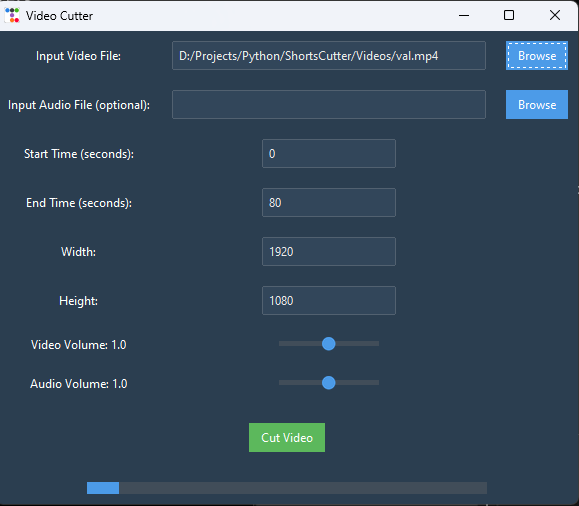
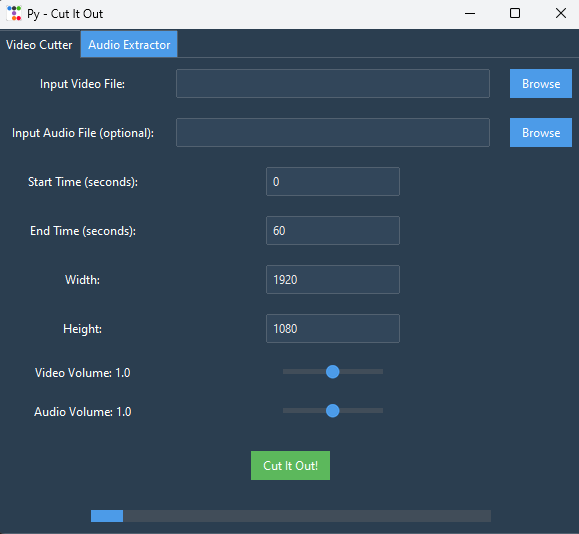
added Audio Extractor

diff --git a/main.py b/main.py
@@ -21,52 +21,80 @@ class VideoCutterApp:
         self.audio_file = None
         
     def setup_ui(self):
-        ttk.Label(self.root, text="Input Video File:").grid(row=0, column=0, padx=10, pady=10)
-        self.input_file_entry = ttk.Entry(self.root, width=50)
+        notebook = ttk.Notebook(self.root, bootstyle="primary")
+        notebook.pack(fill='both', expand=True)
+
+        self.video_cut_tab = ttk.Frame(notebook)
+        self.audio_extract_tab = ttk.Frame(notebook)
+
+        notebook.add(self.video_cut_tab, text='Video Cutter')
+        notebook.add(self.audio_extract_tab, text='Audio Extractor')
+
+        self.setup_video_cutter_ui(self.video_cut_tab)
+        self.setup_audio_extractor_ui(self.audio_extract_tab)
+
+    def setup_video_cutter_ui(self, tab):
+        ttk.Label(tab, text="Input Video File:").grid(row=0, column=0, padx=10, pady=10)
+        self.input_file_entry = ttk.Entry(tab, width=50)
         self.input_file_entry.grid(row=0, column=1, padx=10, pady=10)
-        ttk.Button(self.root, text="Browse", command=self.select_file, bootstyle="primary").grid(row=0, column=2, padx=10, pady=10)
+        ttk.Button(tab, text="Browse", command=self.select_file, bootstyle="primary").grid(row=0, column=2, padx=10, pady=10)
 
-        ttk.Label(self.root, text="Input Audio File (optional):").grid(row=1, column=0, padx=10, pady=10)
-        self.audio_file_entry = ttk.Entry(self.root, width=50)
+        ttk.Label(tab, text="Input Audio File (optional):").grid(row=1, column=0, padx=10, pady=10)
+        self.audio_file_entry = ttk.Entry(tab, width=50)
         self.audio_file_entry.grid(row=1, column=1, padx=10, pady=10)
-        ttk.Button(self.root, text="Browse", command=self.select_audio_file, bootstyle="primary").grid(row=1, column=2, padx=10, pady=10)
+        ttk.Button(tab, text="Browse", command=self.select_audio_file, bootstyle="primary").grid(row=1, column=2, padx=10, pady=10)
 
-        ttk.Label(self.root, text="Start Time (seconds):").grid(row=2, column=0, padx=10, pady=10)
+        ttk.Label(tab, text="Start Time (seconds):").grid(row=2, column=0, padx=10, pady=10)
         self.start_time_var = tk.IntVar(value=0)
-        self.start_time_entry = ttk.Entry(self.root, textvariable=self.start_time_var)
+        self.start_time_entry = ttk.Entry(tab, textvariable=self.start_time_var)
         self.start_time_entry.grid(row=2, column=1, padx=10, pady=10)
 
-        ttk.Label(self.root, text="End Time (seconds):").grid(row=3, column=0, padx=10, pady=10)
+        ttk.Label(tab, text="End Time (seconds):").grid(row=3, column=0, padx=10, pady=10)
         self.end_time_var = tk.IntVar(value=60)
-        self.end_time_entry = ttk.Entry(self.root, textvariable=self.end_time_var)
+        self.end_time_entry = ttk.Entry(tab, textvariable=self.end_time_var)
         self.end_time_entry.grid(row=3, column=1, padx=10, pady=10)
 
-        ttk.Label(self.root, text="Width:").grid(row=4, column=0, padx=10, pady=10)
-        self.width_var = tk.IntVar(value=1080)
-        self.width_entry = ttk.Entry(self.root, textvariable=self.width_var)
+        ttk.Label(tab, text="Width:").grid(row=4, column=0, padx=10, pady=10)
+        self.width_var = tk.IntVar(value=1920)
+        self.width_entry = ttk.Entry(tab, textvariable=self.width_var)
         self.width_entry.grid(row=4, column=1, padx=10, pady=10)
 
-        ttk.Label(self.root, text="Height:").grid(row=5, column=0, padx=10, pady=10)
-        self.height_var = tk.IntVar(value=1920)
-        self.height_entry = ttk.Entry(self.root, textvariable=self.height_var)
+        ttk.Label(tab, text="Height:").grid(row=5, column=0, padx=10, pady=10)
+        self.height_var = tk.IntVar(value=1080)
+        self.height_entry = ttk.Entry(tab, textvariable=self.height_var)
         self.height_entry.grid(row=5, column=1, padx=10, pady=10)
 
-        ttk.Label(self.root, text="Video Volume: 1.0").grid(row=6, column=0, padx=10, pady=10)
+        self.video_volume_label = ttk.Label(tab, text="Video Volume: 1.0")
+        self.video_volume_label.grid(row=6, column=0, padx=10, pady=10)
         self.video_volume_var = tk.DoubleVar(value=1.0)
-        self.video_volume_slider = ttk.Scale(self.root, from_=0, to=2, orient=tk.HORIZONTAL, variable=self.video_volume_var, command=self.update_video_volume_label)
+        self.video_volume_slider = ttk.Scale(tab, from_=0, to=2, orient=tk.HORIZONTAL, variable=self.video_volume_var, command=self.update_video_volume_label)
         self.video_volume_slider.grid(row=6, column=1, padx=10, pady=10)
 
-        ttk.Label(self.root, text="Audio Volume: 1.0").grid(row=7, column=0, padx=10, pady=10)
+        self.audio_volume_label = ttk.Label(tab, text="Audio Volume: 1.0")
+        self.audio_volume_label.grid(row=7, column=0, padx=10, pady=10)
         self.audio_volume_var = tk.DoubleVar(value=1.0)
-        self.audio_volume_slider = ttk.Scale(self.root, from_=0, to=2, orient=tk.HORIZONTAL, variable=self.audio_volume_var, command=self.update_audio_volume_label)
+        self.audio_volume_slider = ttk.Scale(tab, from_=0, to=2, orient=tk.HORIZONTAL, variable=self.audio_volume_var, command=self.update_audio_volume_label)
         self.audio_volume_slider.grid(row=7, column=1, padx=10, pady=10)
 
-        ttk.Button(self.root, text="Cut It Out!", command=self.cut_video, bootstyle="success").grid(row=8, column=0, columnspan=3, pady=20)
+        ttk.Button(tab, text="Cut It Out!", command=self.cut_video, bootstyle="success").grid(row=8, column=0, columnspan=3, pady=20)
 
         self.progress_var = tk.IntVar()
-        self.progress_bar = ttk.Progressbar(self.root, orient=tk.HORIZONTAL, length=400, mode='indeterminate', variable=self.progress_var)
+        self.progress_bar = ttk.Progressbar(tab, orient=tk.HORIZONTAL, length=400, mode='indeterminate', variable=self.progress_var)
         self.progress_bar.grid(row=9, column=0, columnspan=3, padx=10, pady=10)
     
+    def setup_audio_extractor_ui(self, tab):
+        ttk.Label(tab, text="Input Video File:").grid(row=0, column=0, padx=10, pady=10)
+        self.audio_input_file_entry = ttk.Entry(tab, width=50)
+        self.audio_input_file_entry.grid(row=0, column=1, padx=10, pady=10)
+        ttk.Button(tab, text="Browse", command=self.select_audio_input_file, bootstyle="primary").grid(row=0, column=2, padx=10, pady=10)
+
+        ttk.Label(tab, text="Output Audio Format:").grid(row=1, column=0, padx=10, pady=10)
+        self.audio_format_var = tk.StringVar(value='mp3')
+        self.audio_format_entry = ttk.Entry(tab, textvariable=self.audio_format_var)
+        self.audio_format_entry.grid(row=1, column=1, padx=10, pady=10)
+
+        ttk.Button(tab, text="Extract Audio", command=self.extract_audio, bootstyle="success").grid(row=2, column=0, columnspan=3, pady=20)
+        
     def select_file(self):
         file_path = filedialog.askopenfilename(filetypes=[("Video files", "*.mp4;*.avi;*.mov")])
         if file_path:
@@ -83,6 +111,13 @@ class VideoCutterApp:
             self.audio_file_entry.delete(0, tk.END)
             self.audio_file_entry.insert(0, file_path)
             self.audio_file = file_path
+
+    def select_audio_input_file(self):
+        file_path = filedialog.askopenfilename(filetypes=[("Video files", "*.mp4;*.avi;*.mov")])
+        if file_path:
+            self.audio_input_file_entry.delete(0, tk.END)
+            self.audio_input_file_entry.insert(0, file_path)
+            self.input_file = file_path
 
     def cut_video(self):
         if not self.input_file:
@@ -150,6 +185,25 @@ class VideoCutterApp:
             messagebox.showerror("Error", str(e))
         finally:
             self.progress_var.set(100)
+
+    def extract_audio(self):
+        if not self.input_file:
+            messagebox.showerror("Error", "Please select a video file.")
+            return
+
+        output_dir = filedialog.askdirectory()
+        if not output_dir:
+            return
+
+        try:
+            with VideoFileClip(self.input_file) as video:
+                audio = video.audio
+                audio_output_path = os.path.join(output_dir, f"extracted_audio.{self.audio_format_var.get()}")
+                audio.write_audiofile(audio_output_path)
+
+            messagebox.showinfo("Success", f"Audio extracted successfully to {audio_output_path}!")
+        except Exception as e:
+            messagebox.showerror("Error", str(e))
 
     def update_video_volume_label(self, value):
         self.video_volume_label.config(text=f"Video Volume: {float(value):.1f}")

diff --git a/README.md b/README.md
@@ -16,6 +16,11 @@ Welcome to **Cut It Out!** – your friendly and simple video cutter app for Tik
 
 ![Example](https://raw.githubusercontent.com/bugsplat404/PyCutItOut/main/app.png)
 
+
+## !Disclaimer!
+
+This is a small, random, brainstorming, one-evening-project so don't take it to serious :)
+
 ## Getting Started
 
 ### Prerequisites
@@ -48,7 +53,7 @@ python main.py
 ```
 
 
-### Running it as .exe
+## Running it as .exe
 
 For convenience reasons, using it as .exe without dependencies comes in handy. Herefore I recommend PyInstaller.
 
